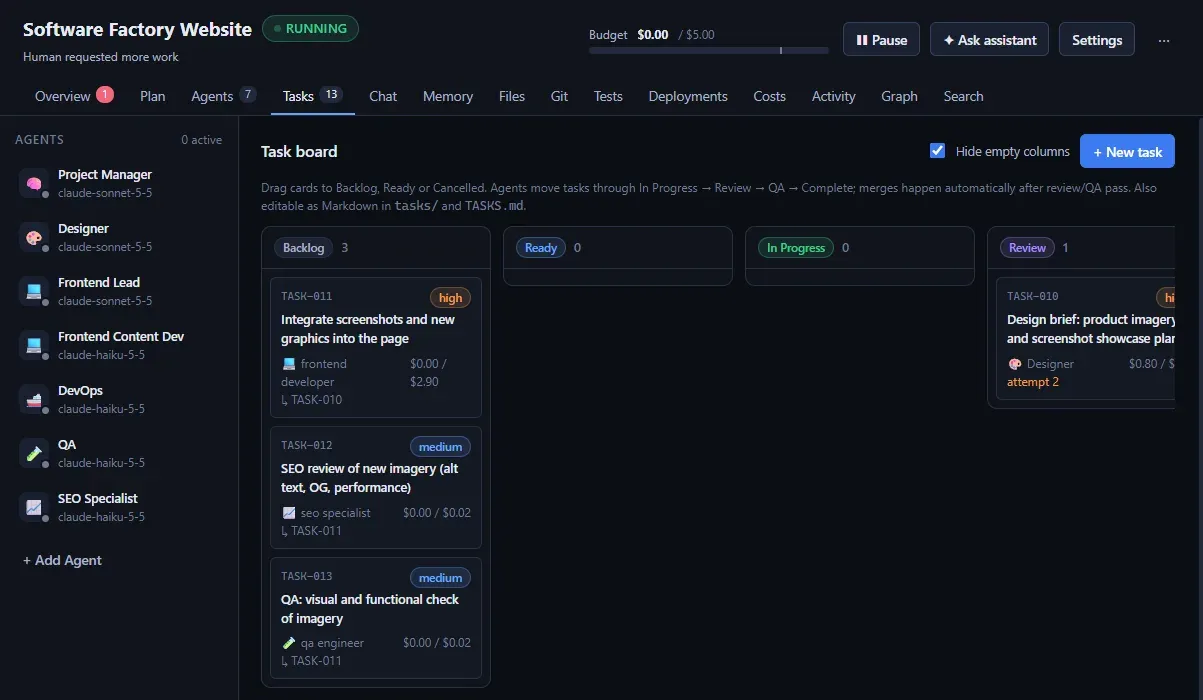
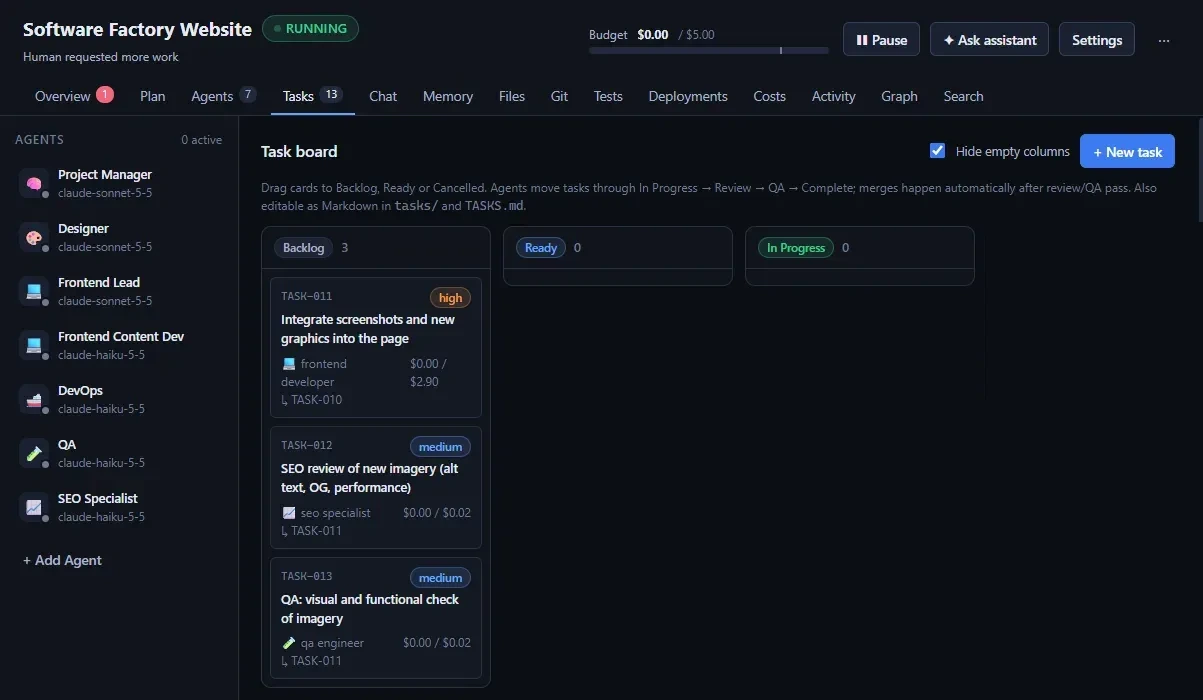
TASK-017: blank cropped Review column in tasks-board screenshot, update alt/brief, add regression test

Changed region(s): [[0.8304, 0.33, 1.0, 1.0], [0.8304, 0.33, 0.8919, 0.39]]

diff --git a/src/data/site.ts b/src/data/site.ts
@@ -324,7 +324,7 @@ export const site: Site = {
     overview: { src: '/images/screenshots/overview.webp', width: 964, height: 350, alt: 'The Software Factory Overview screen: a running project with a review card waiting for approval and task, agent and budget stats.', caption: 'The app: a finished project waiting for your review. Project names and paths are replaced with demo names.' },
     agentChat: { src: '/images/screenshots/agent-chat.webp', width: 628, height: 237, alt: 'A direct message thread with the Project Manager agent, who replies to a specialist agent and keeps the work moving.', caption: 'Chat with any agent directly, and stay in charge of every decision.' },
     billing: { src: '/images/screenshots/billing-costs.webp', width: 1203, height: 780, alt: 'The Billing and Cost Control screen showing spend by project and a usage table of requests, tokens and costs.', caption: 'Spend by project, agent, model or task, with a budget you control.' },
-    tasksBoard: { src: '/images/screenshots/tasks-board.webp', width: 1203, height: 700, alt: 'The Tasks board: task cards moving through Backlog, Ready, In Progress and Review, each assigned to an agent with a per-task budget.', caption: 'A task board your agents work through, one branch per task.' },
+    tasksBoard: { src: '/images/screenshots/tasks-board.webp', width: 1203, height: 700, alt: 'The Tasks board: task cards in the Backlog, Ready and In Progress columns, each assigned to an agent with a per-task budget.', caption: 'A task board your agents work through, one branch per task.' },
     roles: { src: '/images/screenshots/roles.webp', width: 1200, height: 795, alt: 'The Roles screen: a library of built-in agent roles such as Project Manager, Software Architect, Full Stack Developer, QA and SEO, each with a model tier.', caption: '17 built-in roles, plus custom roles you define.' },
     flow: { src: '/images/orchestration-flow.svg', width: 720, height: 200, alt: 'Four steps: describe the objective, review the plan, agents build on separate branches, then review and ship.' },
     teamDiagram: { src: '/images/agent-team.svg', width: 640, height: 360, alt: 'A Project Manager agent coordinating Architect, Designer, Frontend, Backend, DevOps, QA and SEO agents.' },

diff --git a/docs/imagery-brief.md b/docs/imagery-brief.md
@@ -87,6 +87,6 @@ Global: crop out the desktop edge visible at the window borders (a blue desktop 
 
 | ID | Source file | What it shows | Alt text | Section | Treatment |
 |----|-------------|---------------|----------|---------|-----------|
-| IMG-S5 | `chcklist.png` | Tasks tab: kanban board (Backlog / Ready / In Progress / Review) with task cards, priority badges, per-task budget, agent list in the sidebar | "The Tasks board: task cards moving through Backlog, Ready, In Progress and Review, each assigned to an agent with a per-task budget." | Features (task decomposition) or HowItWorks (agents build) | Framed screenshot in the AppMock Windows frame |
+| IMG-S5 | `chcklist.png` | Tasks tab: kanban board (Backlog / Ready / In Progress / Review) with task cards, priority badges, per-task budget, agent list in the sidebar | "The Tasks board: task cards in the Backlog, Ready and In Progress columns, each assigned to an agent with a per-task budget." | Features (task decomposition) or HowItWorks (agents build) | Framed screenshot in the AppMock Windows frame |
 
-Redaction: shows the project names "Software Factory Website" and "Fly by FlyBuys" in the sidebar (crop or replace), real per-task spend figures and Docker/provider status text in the footer strip (crop). No usernames, paths, keys or emails visible. Crop the desktop strip at the window edge. Planned file: `public/images/screenshots/tasks-board.png`.
+Redaction: shows the project names "Software Factory Website" and "Fly by FlyBuys" in the sidebar (crop or replace), real per-task spend figures and Docker/provider status text in the footer strip (crop). No usernames, paths, keys or emails visible. Crop the desktop strip at the window edge. Crop note (TASK-017): the Review column (x≥986, below the header) is blanked to the board background, so no card is cut at the right edge; the Review card showed the TASK-010 title, priority and spend figures, so it is not shown. Shipped file: `public/images/screenshots/tasks-board.webp` (1203x700).
